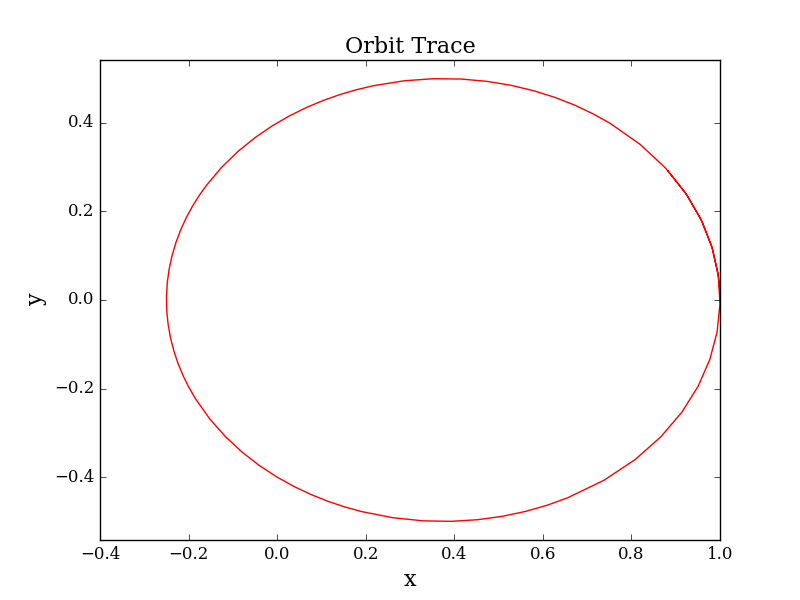
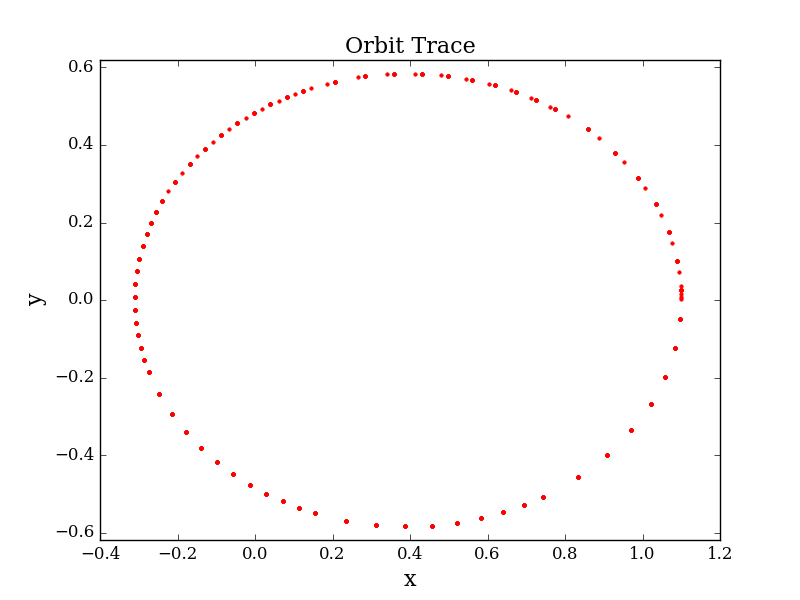
update

diff --git a/src/twobody.cpp b/src/twobody.cpp
@@ -17,7 +17,7 @@ using namespace std;
 // Miu
 const long double twobody_Miu            = 10.0;
 // X
-const long double twobody_X              = 1.0;
+const long double twobody_X              = 1.1;
 // Y
 const long double twobody_Y              = 0.0;
 // V_x
@@ -25,7 +25,7 @@ const long double twobody_V_x            = 0.0;
 // V_y
 const long double twobody_V_y            = 2.0;
 // number of period
-const long double twobody_NumberofPeriod = 2;
+const long double twobody_NumberofPeriod = 10;
 // TOL
 const long double twobody_TOL            = 1e-12;
 
@@ -47,7 +47,7 @@ T f3(T t, T y[4]) {
     return -twobody_Miu * y[1] * pow(y[0] * y[0] + y[1] * y[1], -1.5);
 }
 
-int main(int argc, char *argv[]) {
+int main() {
     const char *outputfile = "twobody_output.dat"; // output file
     long double rkf[4] = {twobody_X, twobody_Y, twobody_V_x,
                           twobody_V_y}; // variables for rkf
@@ -71,7 +71,7 @@ int main(int argc, char *argv[]) {
     RKF.f[2] = &(f2<long double>);
     RKF.f[3] = &(f3<long double>);
     long double tend = period_begin * twobody_NumberofPeriod; // tend
-    try {                                  // error handling
+    try {                       // error handling
         RKF.solve(period_begin / 1000.0, period_begin / 1e+8, rkf,
                   twobody_TOL, 0.0, tend, outputfile); // apply rkf78-4
     } catch (invalid_argument& e) {
@@ -102,34 +102,30 @@ int main(int argc, char *argv[]) {
     outfile << "Steps: " << RKF.step << endl
             << "Energy begin: " << setiosflags(ios::scientific)
             << setprecision(18) << energy_begin << endl
-            << "Energy end: " << setprecision(18) << energy_end << endl
-            << "Energy error: " << setprecision(18) << energy_err << endl
+            << "Energy end: " << energy_end << endl
+            << "Energy error: " << energy_err << endl
             << "Energy relative error: " << resetiosflags(ios::scientific)
-            << setprecision(18) << energy_relative_err * 100.0 << "\%" << endl
+            << energy_relative_err * 100.0 << "\%" << endl
             << "Period begin: " << setiosflags(ios::scientific)
-            << setprecision(18) << period_begin << endl
-            << "Period end: " << setprecision(18)
-            << period_end << endl
-            << "Period error: " << setprecision(18)
-            << period_err << endl
+            << period_begin << endl
+            << "Period end: " << period_end << endl
+            << "Period error: " << period_err << endl
             << "Period relative error: " << resetiosflags(ios::scientific)
-            << setprecision(18) << period_relative_err * 100.0 << "\%" << endl;
+            << period_relative_err * 100.0 << "\%" << endl;
     outfile.close();
     // output to screen
     cout << "Steps: " << RKF.step << endl
          << "Energy begin: " << setiosflags(ios::scientific)
          << setprecision(18) << energy_begin << endl
-         << "Energy end: " << setprecision(18) << energy_end << endl
-         << "Energy error: " << setprecision(18) << energy_err << endl
+         << "Energy end: " << energy_end << endl
+         << "Energy error: " << energy_err << endl
          << "Energy relative error: " << resetiosflags(ios::scientific)
-         << setprecision(18) << energy_relative_err * 100.0 << "\%" << endl
+         << energy_relative_err * 100.0 << "\%" << endl
          << "Period begin: " << setiosflags(ios::scientific)
-         << setprecision(18) << period_begin << endl
-         << "Period end: " << setprecision(18)
-         << period_end << endl
-         << "Period error: " << setprecision(18)
-         << period_err << endl
+         << period_begin << endl
+         << "Period end: " << period_end << endl
+         << "Period error: " << period_err << endl
          << "Period relative error: " << resetiosflags(ios::scientific)
-         << setprecision(18) << period_relative_err * 100.0 << "\%" << endl;
+         << period_relative_err * 100.0 << "\%" << endl;
     return 0;
 }

diff --git a/include/rkf78.hpp b/include/rkf78.hpp
@@ -161,7 +161,7 @@ void RKF78<T, dim>::solve(T hinit, T hmin, T y[dim], T TOL, T begin, T end,
     }
     cout<<endl;
     outfile<<endl;
-    for (;t < end;) {
+    for (;t <= end;) {
         rkf78(h, t, y, hmin, TOL); // calculate one step
         step++;                       // step plus one
         // output result

diff --git a/include/orbit_ellipse_2d.hpp b/include/orbit_ellipse_2d.hpp
@@ -65,7 +65,7 @@ T OrbitEllipse2D<T>::Energy(T V, T miu, T R) {
 
 template<class T>
 T OrbitEllipse2D<T>::Period(T SemiMajorAxis, T miu) {
-    return 2 * atan(1) * 4 * sqrt(pow(SemiMajorAxis, 3.0) / miu);
+    return sqrt(pow(SemiMajorAxis, 3.0) / miu) * 8.0 * atan(1.0);
 }
 
 template<class T>
